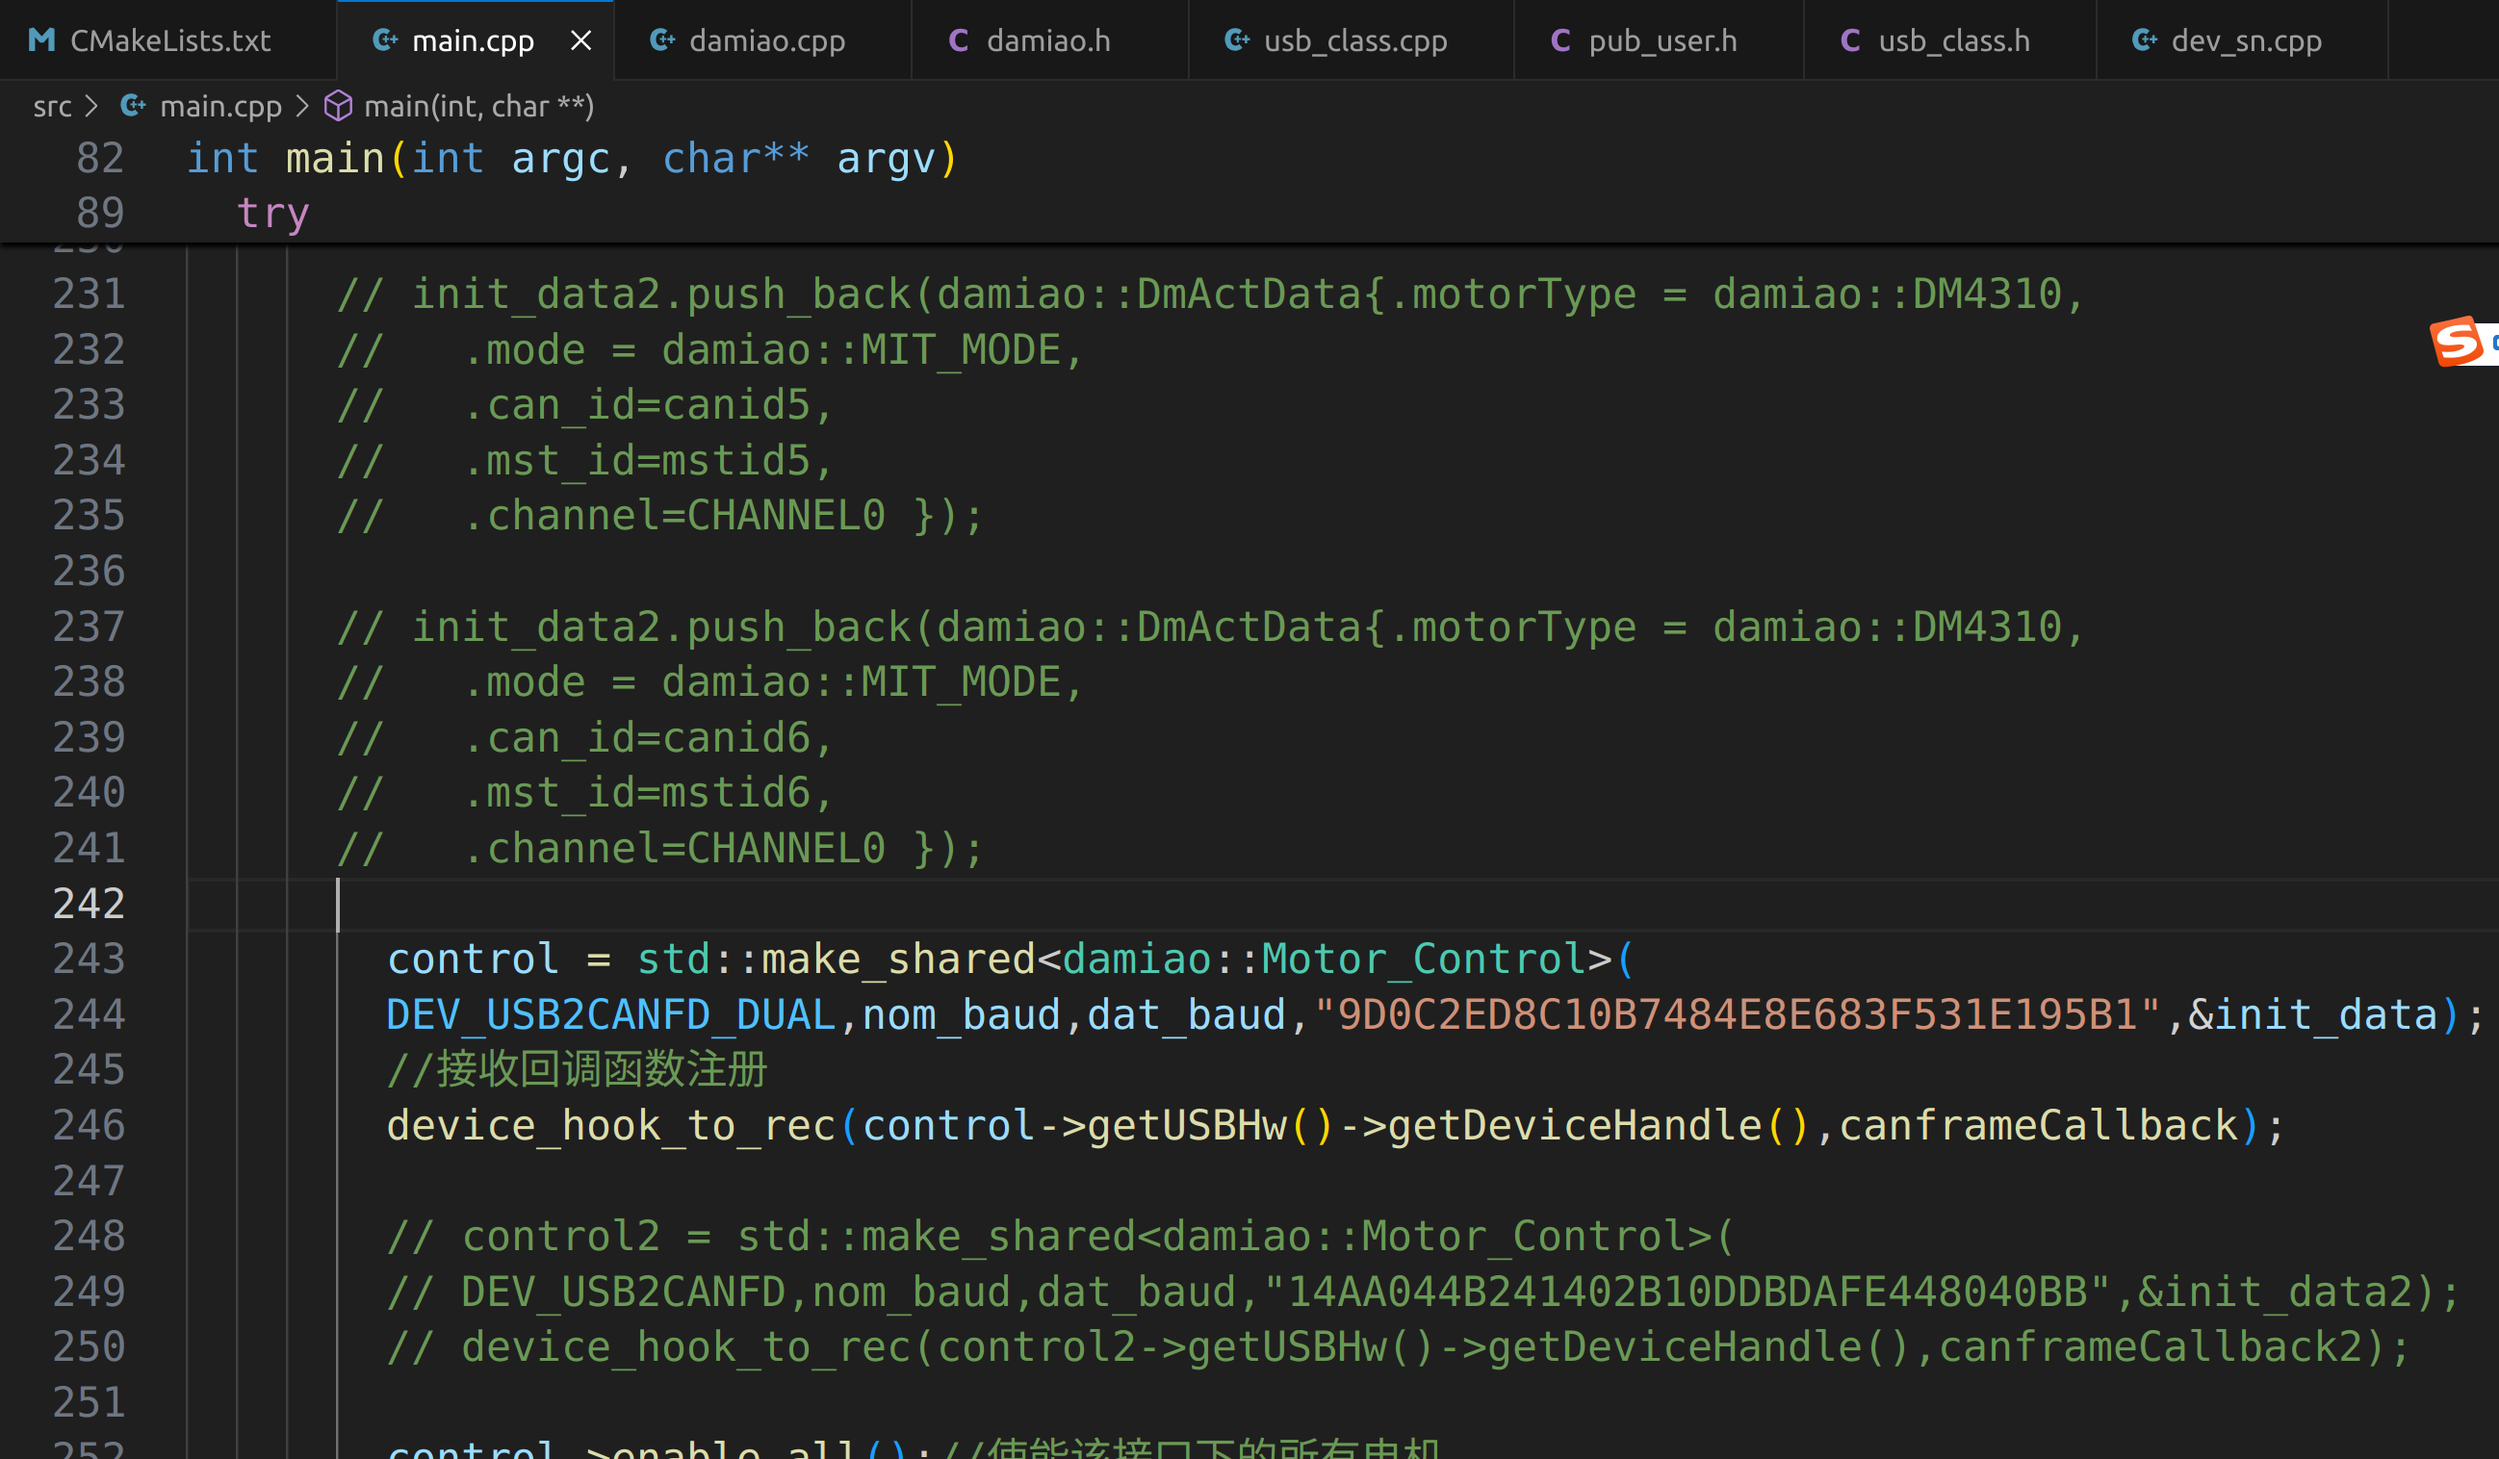
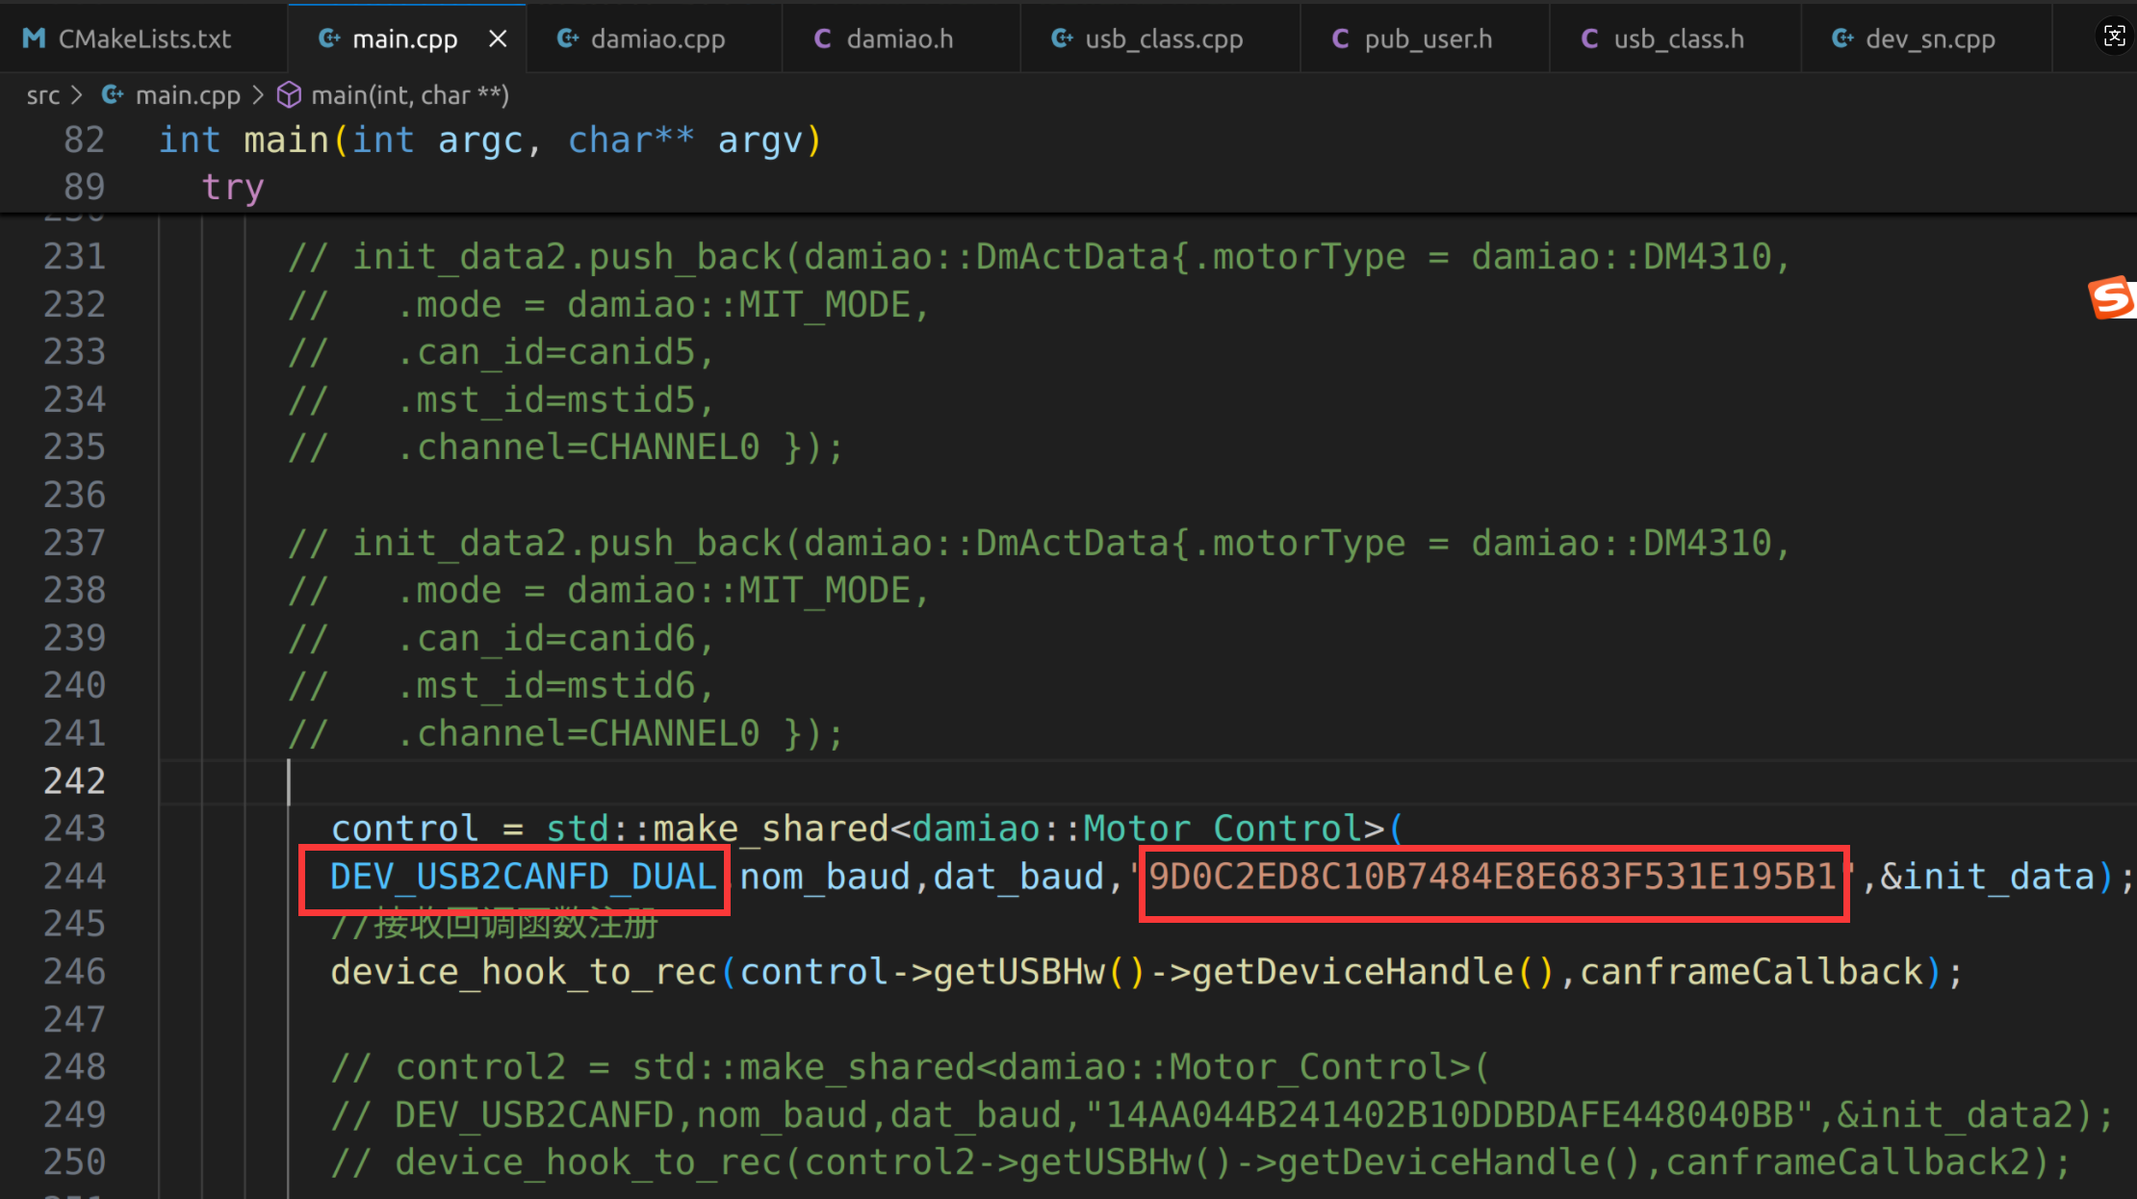
更新u2canfd的c++例程，支持USB转双路CANFD设备

diff --git a/C++例程/u2canfd/README.md b/C++例程/u2canfd/README.md
@@ -5,7 +5,7 @@
 
 硬件设备需要达妙的**USB转单路或者双路CANFD设备**。
 
-程序测试环境是ubuntu20.04,ubuntu22.04。
+程序测试环境是gcc13。
 
 程序默认运行的效果是使用**USB转双路CANFD设备*先让canid为0x01、mstid为0x11的DM4310电机控制模式设置为MIT模式，然后使能，然后旋转，**电机波特率为5M**。
 
@@ -49,7 +49,7 @@ sudo nano /etc/udev/rules.d/99-usb.rules
 SUBSYSTEM=="usb", ATTR{idVendor}=="34b7", ATTR{idProduct}=="6877", MODE="0666"
 SUBSYSTEM=="usb", ATTR{idVendor}=="34b7", ATTR{idProduct}=="6632", MODE="0666"
 ```
-第一行是USB转单路CANFD设备，第二行是第一行是USB转双路CANFD设备。
+第一行是USB转**单路**CANFD设备，第二行是第一行是USB转**双路**CANFD设备。
 
 然后重新加载并触发：
 ```shell
@@ -67,7 +67,7 @@ cd ~/catkin_ws/u2canfd/build
 
 上面图片里的SN后面的一串数字就是该设备的的Serial_Number，
 
-接着复制该Serial\_Number，打开main.cpp，替换程序里的Serial\_Number,同时选择是USB转单路CANFD还是双路CANFD，如下图所示：
+接着复制该Serial\_Number，打开main.cpp，替换程序里的Serial\_Number，同时选择是**USB转单路CANFD**还是**双路CANFD**，如下图所示：
 
 <img src="./docs/motor_control.png" width="850" height="auto">
 
